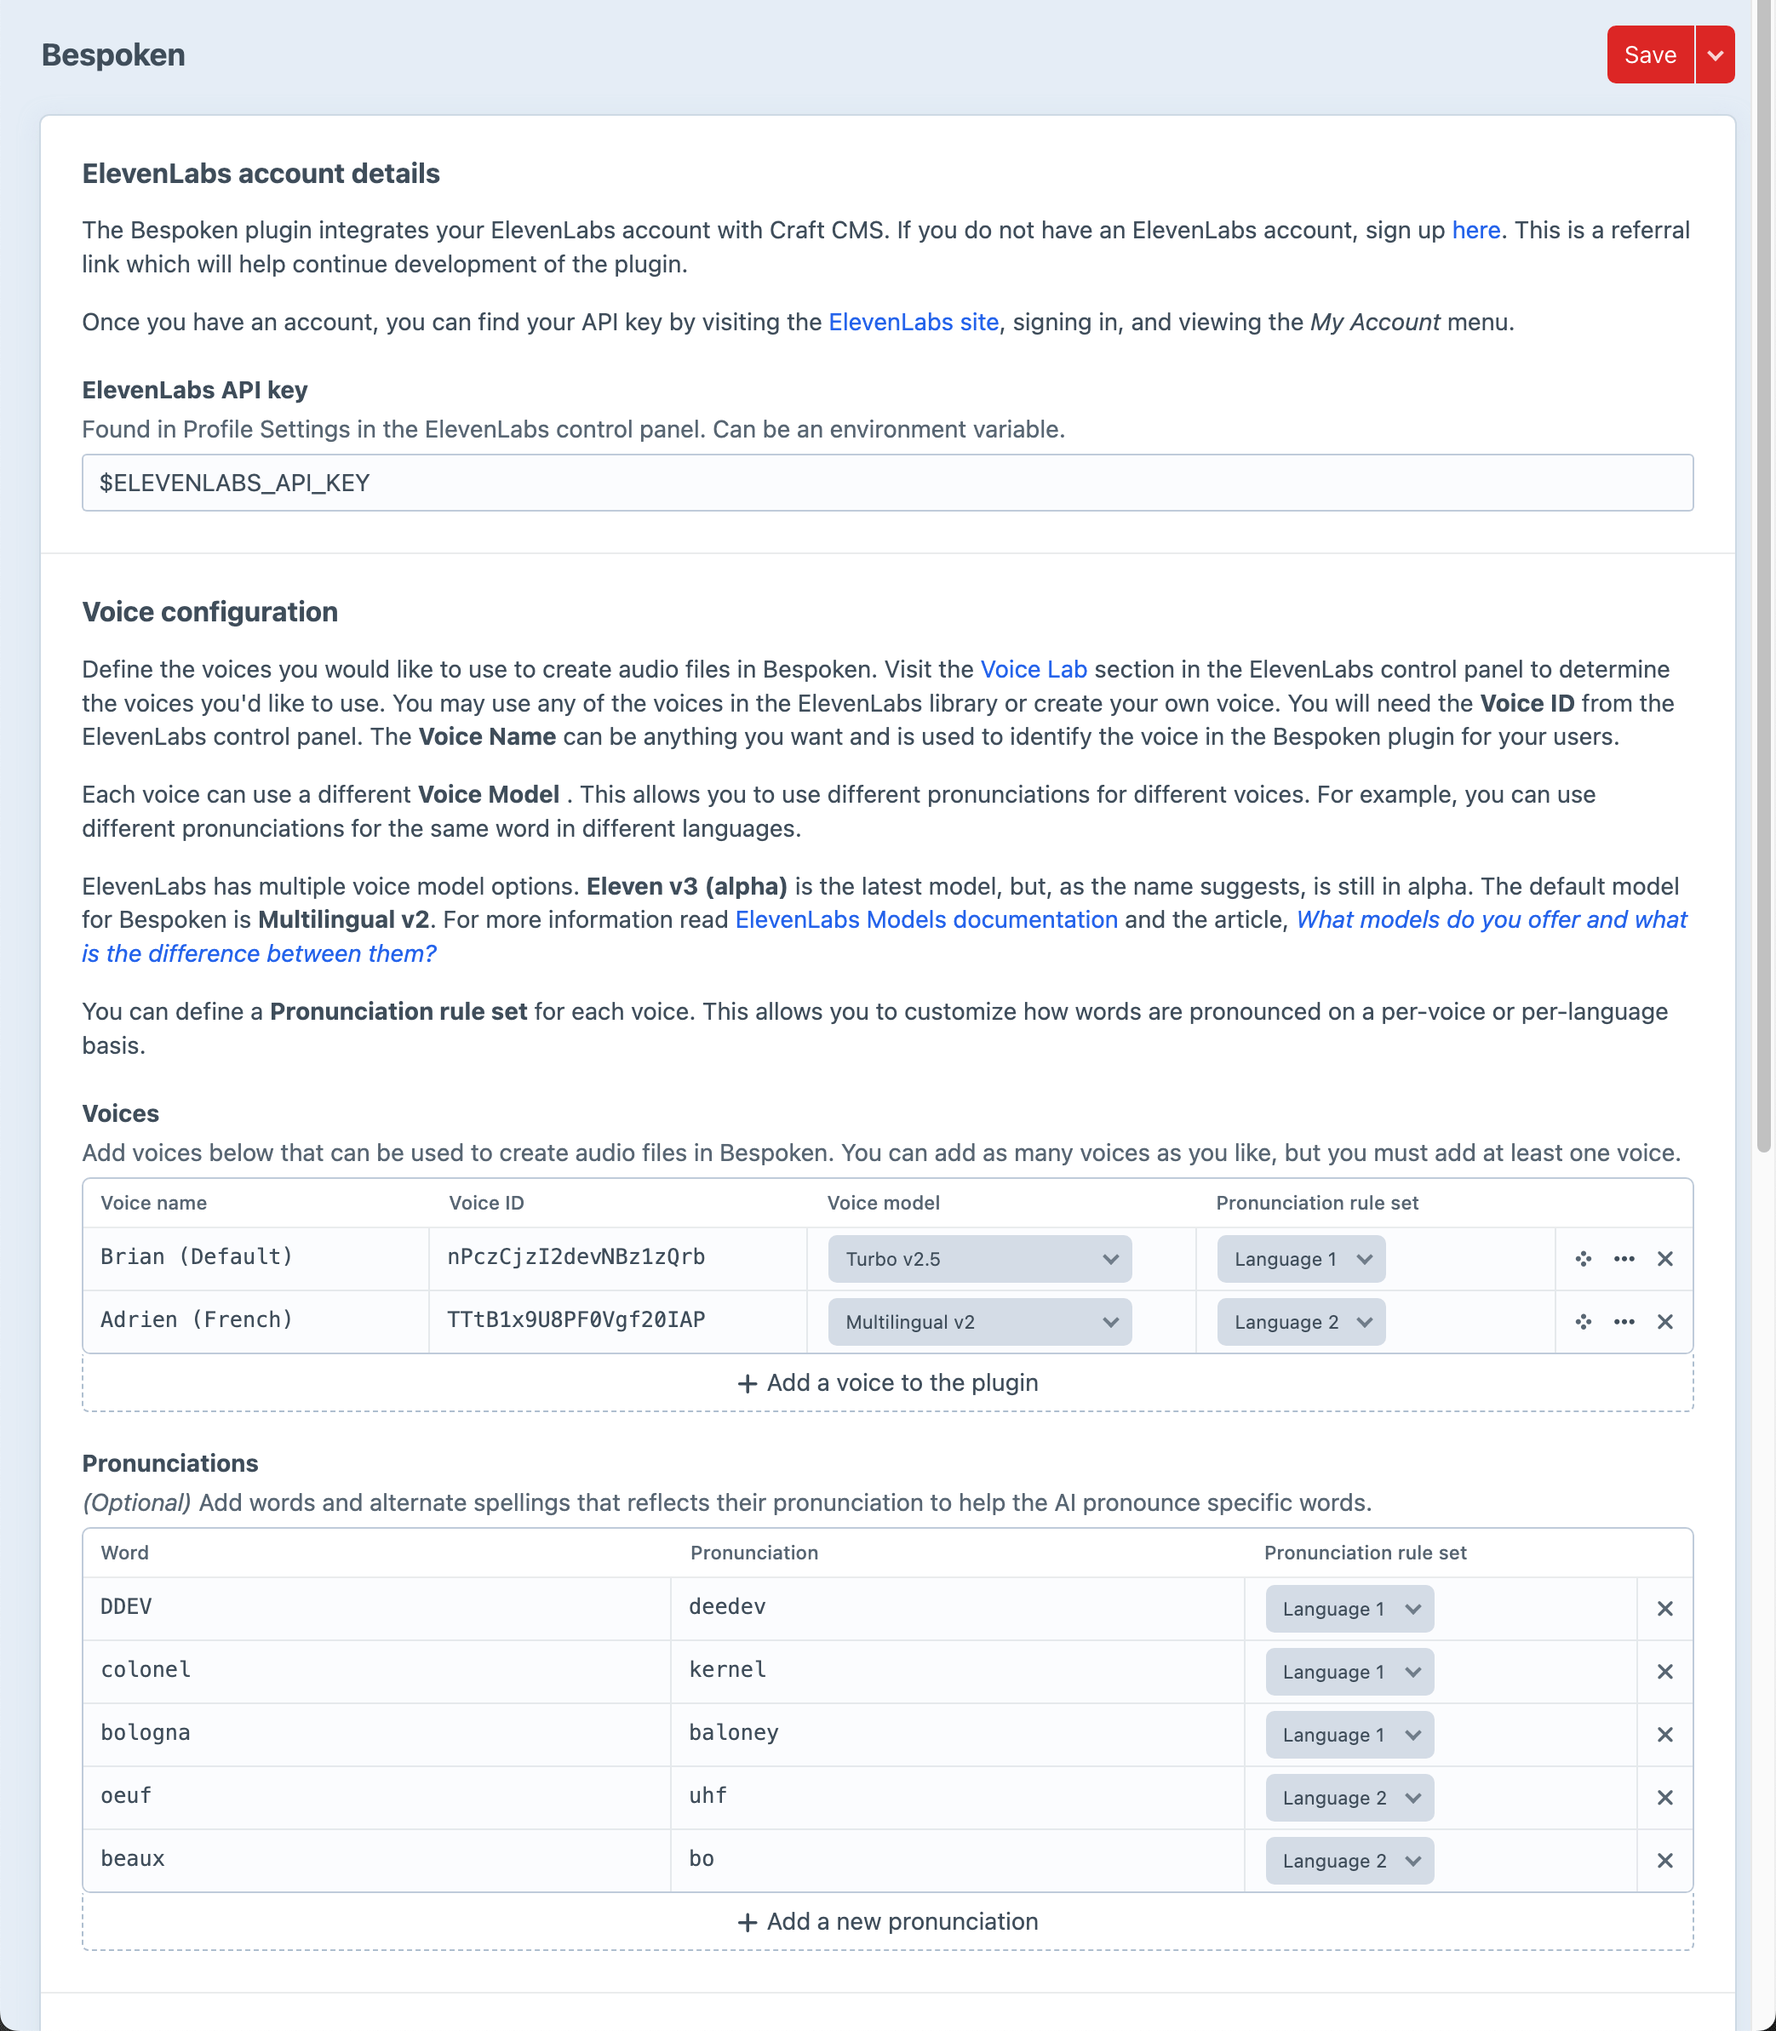
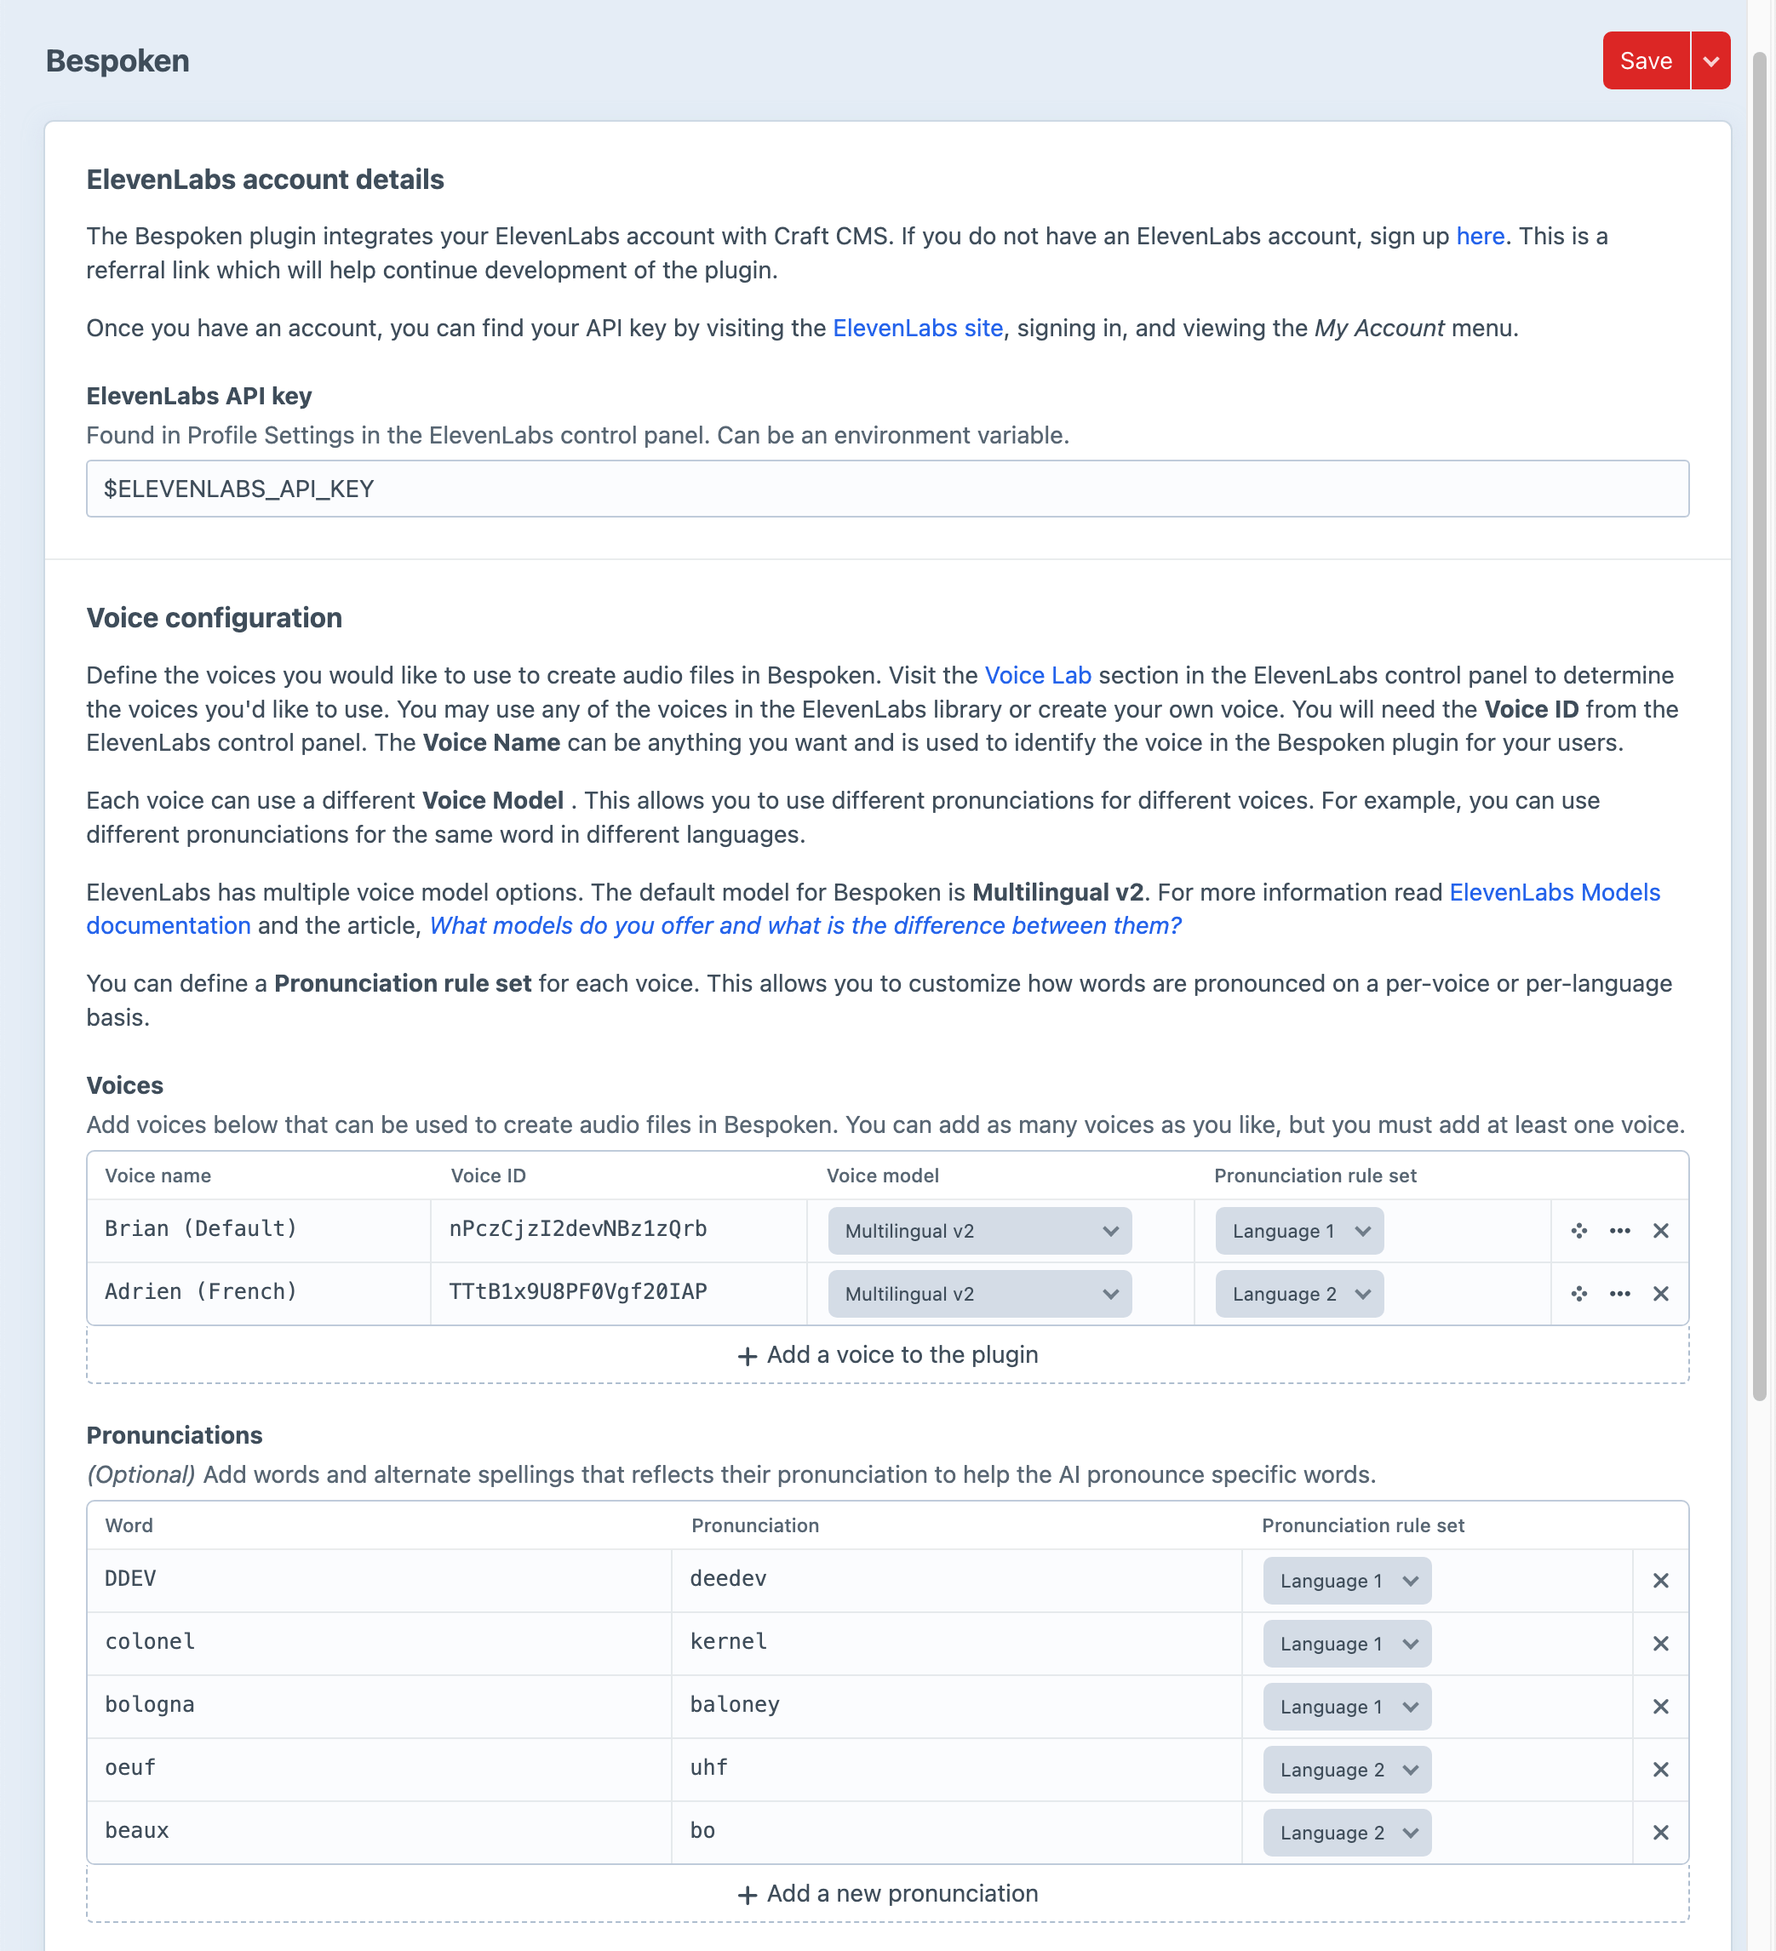
removed V3 model while in alpha

diff --git a/src/translations/en/bespoken.php b/src/translations/en/bespoken.php
@@ -18,18 +18,17 @@ return [
     'Voice options instructions' => 'Below are all of the voices available in the plugin. Select the voices you would like to use to read the source field aloud.',
     'Voice field select label' => 'Select a voice',
     'Voice field select instructions' => 'Choose the voice that will be used to create the audio file.',
-    'Voice configuration instructions' => "<p>See the
+    'Voice configuration instructions' => "<p>Define the voices you would like to use to create audio files in Bespoken. Visit the
 	<a href=\"https://elevenlabs.io/app/voice-lab\">Voice Lab</a>
 	section in the ElevenLabs control panel to determine the voices you'd like to use. You may use any of the voices in the ElevenLabs library or create your own voice. You will need the
-	<b>Voice ID</b>. The
+	<b>Voice ID</b> from the ElevenLabs control panel. The
 	<b>Voice Name</b>
 	can be anything you want and is used to identify the voice in the Bespoken plugin for your users.</p>
-<p>Each voice can have a different
+<p>Each voice can use a different
 	<b>Voice Model</b>
 	. This allows you to use different pronunciations for different voices. For example, you can use different pronunciations for the same word in different languages.</p>
 <p>ElevenLabs has multiple voice model options.
-	<b>Eleven v3 (alpha)</b>
-	is the latest model, but, as the name suggests, is still in alpha, but you can use it. The default model for Bespoken is
+	The default model for Bespoken is
 	<b>Multilingual v2</b>. For more information read
 	<a href='https://elevenlabs.io/docs/speech-synthesis/models'>ElevenLabs Models documentation</a>
 	and the article,
@@ -37,7 +36,7 @@ return [
 		<i>What models do you offer and what is the difference between them?</i>
 	</a>
 </p>
-<p>You can also choose a <b>Pronunciation rule set</b> for each voice. This allows you to assign pronunciation rules and apply them to only some voices. For example, you can define pronunciation for a voice on a per language basis.</p>
+<p>You can define a <b>Pronunciation rule set</b> for each voice. This allows you to customize how words are pronounced on a per-voice or per-language basis.</p>
 ",
     'Voice lab instructions' => '<p>All values below should be left at the defaults under most circumstances. For more information, read the <a
             href="https://elevenlabs.io/docs/speech-synthesis/voice-settings" target="_blank">ElevenLabs documentation for voice settings.</a></p>',
@@ -55,4 +54,17 @@ return [
     'Pronunciations instructions' => '<i>(Optional)</i> Add words and alternate spellings that reflects their pronunciation to help the AI pronounce specific words.',
     'Preview window title' => 'Preview of the narration script',
     'Preview window description' => 'Correct any errors in your entry before generating the audio.',
+    'ElevenLabs account details instructions' => '<h2 class="first"> ElevenLabs account details</h2>  <p>The Bespoken plugin integrates your ElevenLabs account with Craft CMS. If you do not have an ElevenLabs account, sign up
+	<a href="https://elevenlabs.io/?from=partnergomez2285">here</a>. This is a referral link which will help continue development of the plugin.</p>
+
+<p>Once you have an account, you can find your API key by visiting the
+	<a href="https://elevenlabs.io/app/sign-in">ElevenLabs site</a>, signing in, and viewing the <i>My Account</i> menu.</p>',
+    'File save options instructions' => '<h2>File save options</h2>
+
+<p>Bespoken will save the audio files it creates as native Craft CMS Assets. The filesystem can be local or a cloud provider.</p>',
+    'Advanced settings instructions' => '<h2>Advanced settings</h2>
+
+<p>All values below should be left at the defaults under most circumstances. For more information, read the
+	<a href="https://elevenlabs.io/docs/speech-synthesis/voice-settings">ElevenLabs documentation for voice settings.</a>
+</p>',
 ];
